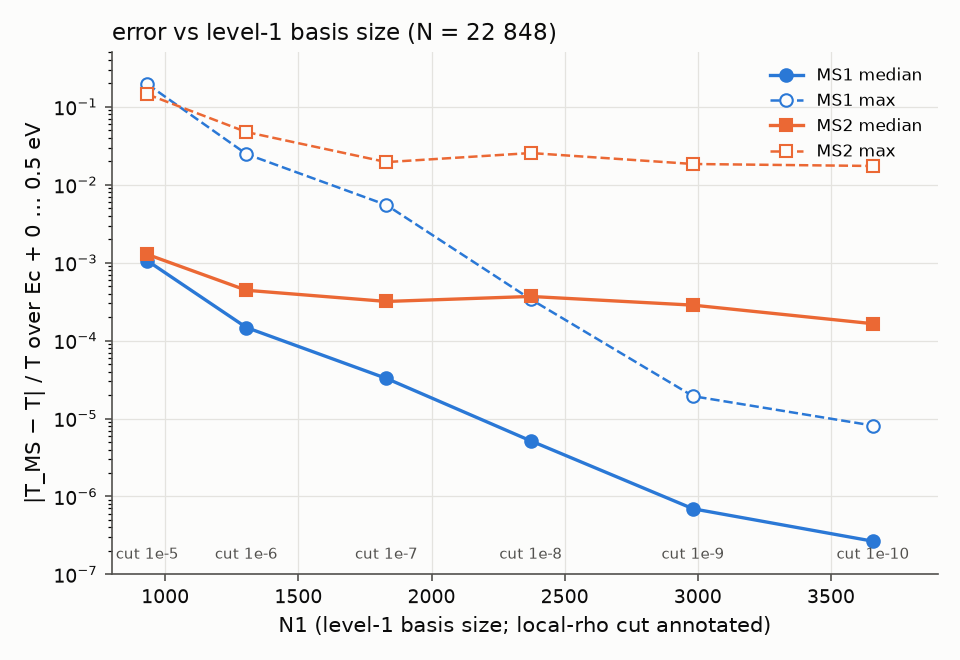
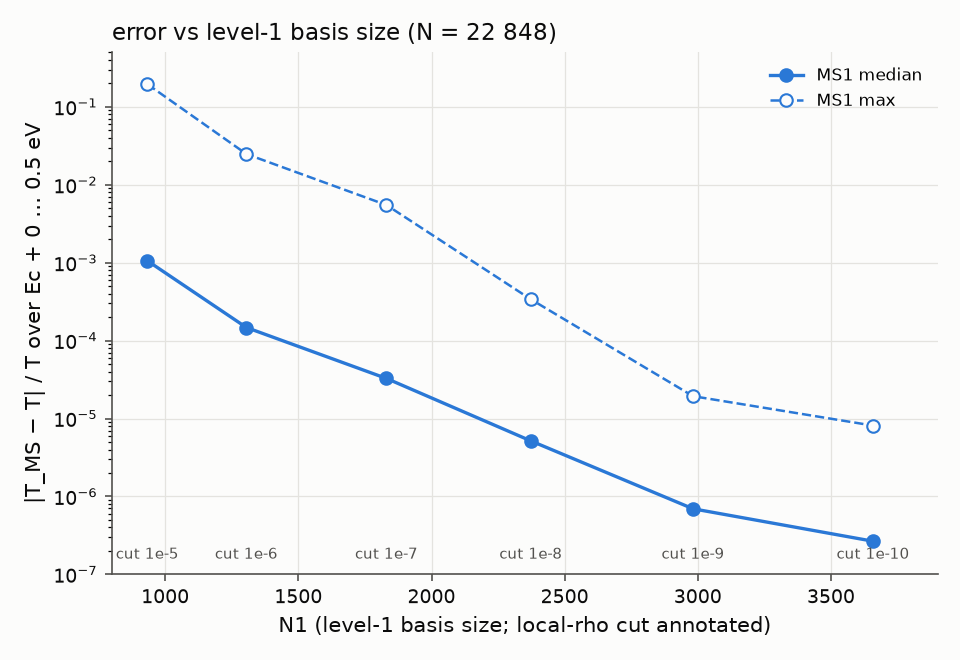
reports/slab-level1: MS1 only (level-2 cut not tuned yet)

diff --git a/reports/2026-11-04-mos2-hfo2-slab-level1/make_figures.py b/reports/2026-11-04-mos2-hfo2-slab-level1/make_figures.py
@@ -1,5 +1,6 @@
 """Slab level 1 (local rho per slab, CAP+OBC embedding, 24-pt contour, window Ec - 0.15 ... + 0.6 eV) on the
-2808-atom MoS2/HfO2 device: T and |T_MS1 - T| / T vs E for the local-rho cuts 1e-5 ... 1e-10 (N1 in the legend).
+2808-atom MoS2/HfO2 device: T and |T_MS1 - T| / T vs E for the local-rho cuts 1e-5 ... 1e-10 (N1 in the legend). MS1 only: the level-2
+cut is not tuned yet.
     uv run python reports/2026-11-04-mos2-hfo2-slab-level1/make_figures.py
 """
 import json, os
@@ -36,7 +37,7 @@ def style(ax):
     ax.tick_params(colors=MUTED, labelcolor=INK, labelsize=9)
 
 
-for level in (1, 2):
+for level in (1,):
     fig, (a1, a2) = plt.subplots(2, 1, figsize=(7.6, 8.0), sharex=True, height_ratios=[1, 1.15])
     fig.patch.set_facecolor(SURF)
     for a in (a1, a2):
@@ -68,11 +69,11 @@ for level in (1, 2):
     print("->", f)
 
 
-# error summary vs basis size: median and max over the 51 energies, MS1 and MS2
+# error summary vs basis size: median and max over the 51 energies (MS1 only; level 2 not tuned yet)
 fig, ax = plt.subplots(figsize=(6.4, 4.4))
 fig.patch.set_facecolor(SURF)
 style(ax)
-for level, c, m in ((1, "#2a78d6", "o"), (2, "#eb6834", "s")):
+for level, c, m in ((1, "#2a78d6", "o"),):
     rows = [load(t, level) for t in CUTS]
     N = np.array([r[3] if level == 1 else r[4] for r in rows])
     med = np.array([np.median(np.abs(r[1] - r[2]) / r[2]) for r in rows])
